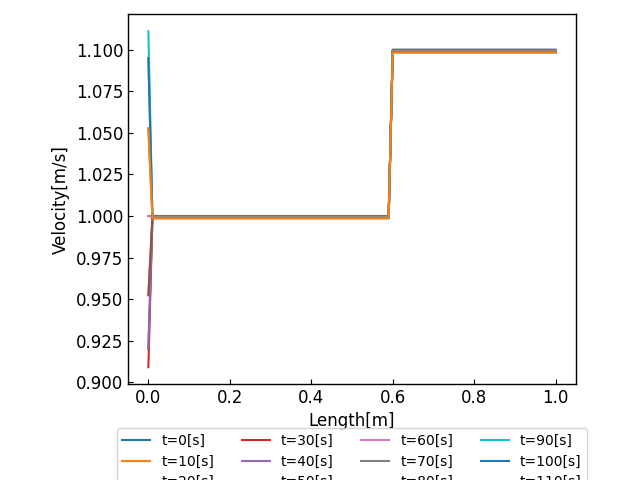
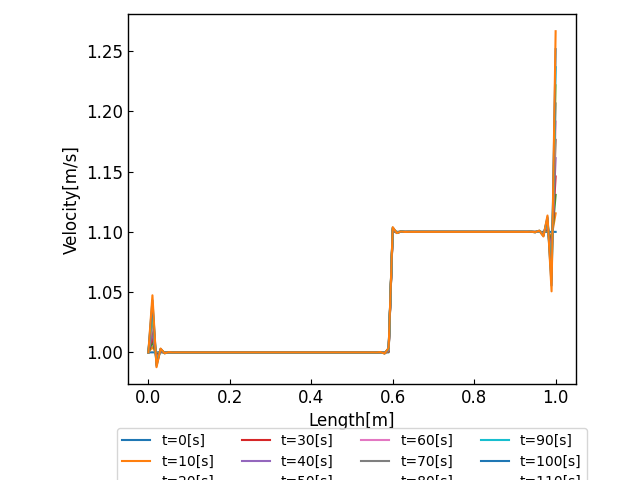
時間刻み幅を小さくすることで計算を実行

diff --git a/main.cpp b/main.cpp
@@ -61,28 +61,28 @@ void input()
 // init Q and A (which we want to calculate)
 void initVariables()
 {
-  // for (int i = 0; i < NODE_NUM; i++)
-  // {
-  //   // 初期状態のnodeに与える速度はノード点の位置によって変える
-  //   if (i < 60)
-  //   {
-  //     area[0][i] = A0;
-  //     velocity[0][i] = v0;
-  //     flowQuantity[0][i] = area[0][i] * velocity[0][i];
-  //   }
-  //   else
-  //   {
-  //     area[0][i] = A0 / 1.1e0;
-  //     velocity[0][i] = v0 * 1.1e0;
-  //     flowQuantity[0][i] = area[0][i] * velocity[0][i];
-  //   }
-  // }
   for (int i = 0; i < NODE_NUM; i++)
   {
-    area[0][i] = A0;
-    velocity[0][i] = v0;
-    flowQuantity[0][i] = area[0][i] * velocity[0][i];
+    // 初期状態のnodeに与える速度はノード点の位置によって変える
+    if (i < 60)
+    {
+      area[0][i] = A0;
+      velocity[0][i] = v0;
+      flowQuantity[0][i] = area[0][i] * velocity[0][i];
+    }
+    else
+    {
+      area[0][i] = A0 / 1.1e0;
+      velocity[0][i] = v0 * 1.1e0;
+      flowQuantity[0][i] = area[0][i] * velocity[0][i];
+    }
   }
+  // for (int i = 0; i < NODE_NUM; i++)
+  // {
+  //   area[0][i] = A0;
+  //   velocity[0][i] = v0;
+  //   flowQuantity[0][i] = area[0][i] * velocity[0][i];
+  // }
 }
 
 void output()
@@ -174,7 +174,7 @@ void exec()
 
     // B.C. : 0番目のnode点では常に流路面積, 速度一定
     area[i][0] = A0;
-    flowQuantity[i][0] = A0 * v0 * (1e-1 * sin(2e0 * M_PI * i / M) + 1e0);
+    flowQuantity[i][0] = A0 * v0;
 
     for (int j = 0; j < ELEMENT_NUM; j++)
     {
@@ -221,7 +221,7 @@ void exec()
 
           if (b_area(ele0) < 0e0 || b_area(ele1) < 0e0 || b_flowQuantity(ele0) < 0e0 || b_flowQuantity(ele1) < 0e0 || Q < 0e0 || A < 0e0)
           {
-            ExceptionArgs args = ExceptionArgs::newCheckArgs(b_area(ele0), b_area(ele1), b_flowQuantity(ele0), b_flowQuantity(ele1), i, j, rightPart.firstTerm.index);
+            ExceptionArgs args = ExceptionArgs::newCheckArgs(b_area(ele0), b_area(ele1), b_flowQuantity(ele0), b_flowQuantity(ele1), A, Q, i, j, rightPart.firstTerm.index);
             ExceptionManager::check(args);
           }
         }
@@ -234,7 +234,7 @@ void exec()
 
           if (b_area(ele0) < 0e0 || b_area(ele1) < 0e0 || b_flowQuantity(ele0) < 0e0 || b_flowQuantity(ele1) < 0e0 || Q < 0e0 || A < 0e0)
           {
-            ExceptionArgs args = ExceptionArgs::newCheckArgs(b_area(ele0), b_area(ele1), b_flowQuantity(ele0), b_flowQuantity(ele1), i, j, rightPart.secondTerm.index);
+            ExceptionArgs args = ExceptionArgs::newCheckArgs(b_area(ele0), b_area(ele1), b_flowQuantity(ele0), b_flowQuantity(ele1), A, Q, i, j, rightPart.secondTerm.index);
             ExceptionManager::check(args);
           }
         }
@@ -245,7 +245,7 @@ void exec()
 
           if (b_area(ele0) < 0e0 || b_area(ele1) < 0e0 || b_flowQuantity(ele0) < 0e0 || b_flowQuantity(ele1) < 0e0 || Q < 0e0 || A < 0e0)
           {
-            ExceptionArgs args = ExceptionArgs::newCheckArgs(b_area(ele0), b_area(ele1), b_flowQuantity(ele0), b_flowQuantity(ele1), i, j, rightPart.thirdTerm.index);
+            ExceptionArgs args = ExceptionArgs::newCheckArgs(b_area(ele0), b_area(ele1), b_flowQuantity(ele0), b_flowQuantity(ele1), A, Q, i, j, rightPart.thirdTerm.index);
             ExceptionManager::check(args);
           }
         }
@@ -258,7 +258,7 @@ void exec()
 
           if (b_area(ele0) < 0e0 || b_area(ele1) < 0e0 || b_flowQuantity(ele0) < 0e0 || b_flowQuantity(ele1) < 0e0 || Q < 0e0 || A < 0e0)
           {
-            ExceptionArgs args = ExceptionArgs::newCheckArgs(b_area(ele0), b_area(ele1), b_flowQuantity(ele0), b_flowQuantity(ele1), i, j, rightPart.fourthTerm.index);
+            ExceptionArgs args = ExceptionArgs::newCheckArgs(b_area(ele0), b_area(ele1), b_flowQuantity(ele0), b_flowQuantity(ele1), A, Q, i, j, rightPart.fourthTerm.index);
             ExceptionManager::check(args);
           }
         }
@@ -269,7 +269,7 @@ void exec()
 
           if (b_area(ele0) < 0e0 || b_area(ele1) < 0e0 || b_flowQuantity(ele0) < 0e0 || b_flowQuantity(ele1) < 0e0 || Q < 0e0 || A < 0e0)
           {
-            ExceptionArgs args = ExceptionArgs::newCheckArgs(b_area(ele0), b_area(ele1), b_flowQuantity(ele0), b_flowQuantity(ele1), i, j, rightPart.fifthTerm.index);
+            ExceptionArgs args = ExceptionArgs::newCheckArgs(b_area(ele0), b_area(ele1), b_flowQuantity(ele0), b_flowQuantity(ele1), A, Q, i, j, rightPart.fifthTerm.index);
             ExceptionManager::check(args);
           }
         }

diff --git a/exception-args.h b/exception-args.h
@@ -5,6 +5,8 @@ private:
   double b_area_ele1;
   double b_flowQuantity_ele0;
   double b_flowQuantity_ele1;
+  double A;
+  double Q;
   int i;
   int j;
   int index;
@@ -15,6 +17,8 @@ public:
       double b_area_ele1,
       double b_flowQuantity_ele0,
       double b_flowQuantity_ele1,
+      double A,
+      double Q,
       int i,
       int j,
       int index)
@@ -24,6 +28,8 @@ public:
     args.b_area_ele1 = b_area_ele1;
     args.b_flowQuantity_ele0 = b_flowQuantity_ele0;
     args.b_flowQuantity_ele1 = b_flowQuantity_ele1;
+    args.A = A;
+    args.Q = Q;
     args.i = i;
     args.j = j;
     args.index = index;
@@ -35,6 +41,8 @@ public:
   double getB_area_ele1() const { return b_area_ele1; }
   double getB_flowQuantity_ele0() const { return b_flowQuantity_ele0; }
   double getB_flowQuantity_ele1() const { return b_flowQuantity_ele1; }
+  double getA() const { return A; }
+  double getQ() const { return Q; }
   int getI() const { return i; }
   int getJ() const { return j; }
   int getIndex() const { return index; }

diff --git a/params.h b/params.h
@@ -9,7 +9,7 @@ vector<double> x;
 
 const double L = 1.0e-1;                                     // tubeの長さ[m]
 const int M = 1200;                                          // 時間ステップ数[-]
-const double dt = 1.0e-04;                                   // 時間刻み[s]
+const double dt = 1.0e-07;                                   // 時間刻み[s]
 const double DELTA_X = L / ELEMENT_NUM;                      // 要素の長さ[m]
 const double PI = M_PI;                                      // 円周率
 const double r0 = 1.0e-02;                                   // 初期状態のtubeの半径[m]
@@ -25,5 +25,4 @@ double v0 = 1.0e0; // 所定位置における初期状態のtubeの流速[m/s]
 // [時刻][node番号]
 vector<vector<double>> area(M + 1, vector<double>(NODE_NUM, 0e0));
 vector<vector<double>> velocity(M + 1, vector<double>(NODE_NUM, 0e0));
-vector<vector<double>>
-    flowQuantity(M + 1, vector<double>(NODE_NUM, 0e0));
+vector<vector<double>> flowQuantity(M + 1, vector<double>(NODE_NUM, 0e0));

diff --git a/exception-manager.h b/exception-manager.h
@@ -9,6 +9,8 @@ public:
     std::cout << "b_area_ele1 = " << args.getB_area_ele1() << std::endl;
     std::cout << "b_flowQuantity_ele0 = " << args.getB_flowQuantity_ele0() << std::endl;
     std::cout << "b_flowQuantity_ele1 = " << args.getB_flowQuantity_ele1() << std::endl;
+    std::cout << "A = " << args.getA() << std::endl;
+    std::cout << "Q = " << args.getQ() << std::endl;
     std::cout << args.getIndex() << "th term is nan Exit..." << std::endl;
     exit(1);
   }
